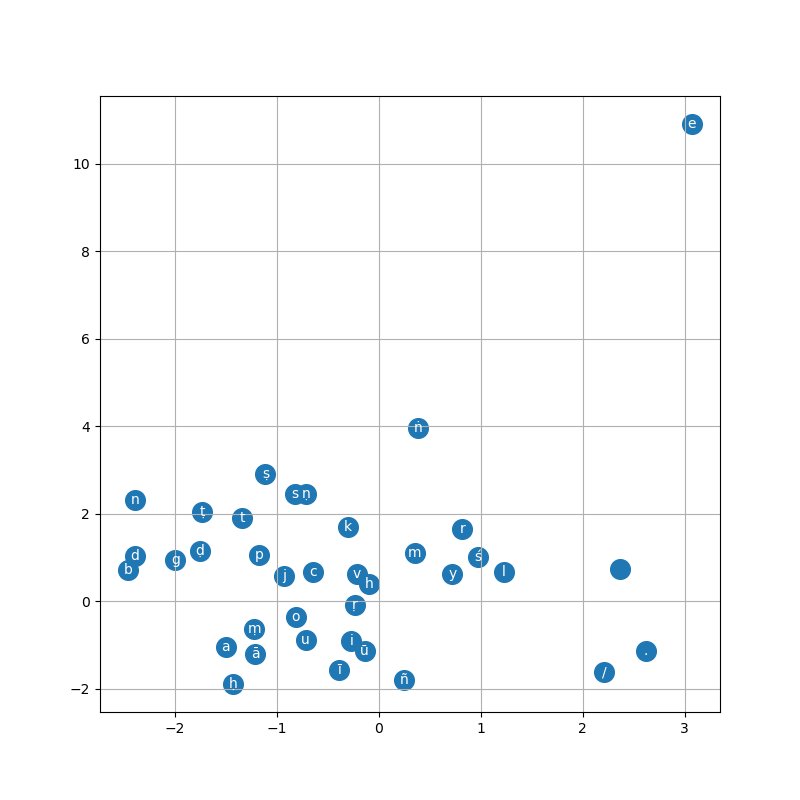
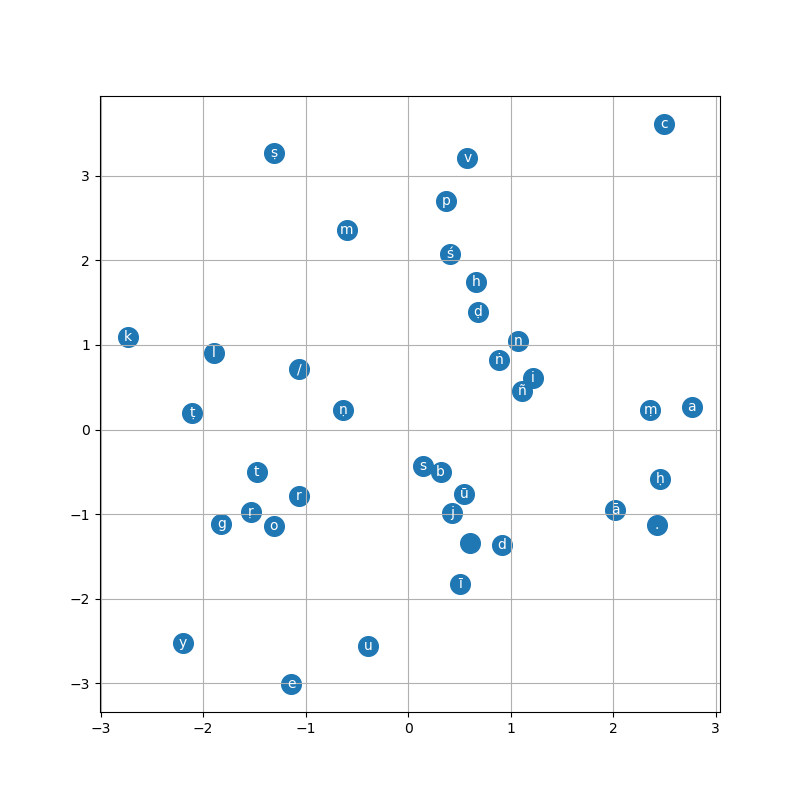
added batch normalization

diff --git a/makemore-demo/mlp.py b/makemore-demo/mlp.py
@@ -5,10 +5,11 @@ import matplotlib.pyplot as plt
 
 random.seed(42)
 
-words = open('sanskrit_names.txt', 'r').read().splitlines()
+words = open('sanskrit_names.txt', 'r', encoding="utf8").read().splitlines()
 
 chars = sorted(list(set(''.join(words))))
 num_char = len(chars)
+vocab_size = num_char + 1
 stoi = {s:i+1 for i, s in enumerate(chars)}
 stoi['.'] = 0
 itos = {i:s for s, i in stoi.items()}
@@ -37,42 +38,56 @@ Xtr, Ytr = build_dataset(words[:n1])
 Xdev, Ydev = build_dataset(words[n1:n2])
 Xte, Yte = build_dataset(words[n2:])
 
+
+n_embd = 5
+n_hidden = 50
+
 g = torch.Generator().manual_seed(2147483647)
+C = torch.randn((vocab_size, n_embd), generator=g)
+W1 = torch.randn((block_size * n_embd, n_hidden), generator=g) * (5/3) / (block_size * n_embd)**0.5
+# b1 = torch.randn(n_hidden, generator=g) * 0.01
+W2 = torch.randn((n_hidden, vocab_size), generator=g) * (5/3) / n_hidden**0.5
+b2 = torch.randn(vocab_size, generator=g) * 0
 
-d = 2
-C = torch.randn((num_char + 1, d), generator=g)
+bngain = torch.ones((1, n_hidden))
+bnbias = torch.zeros((1, n_hidden))
+bnmean_running = torch.zeros((1, n_hidden))
+bnstd_running = torch.ones((1, n_hidden))
 
-W1 = torch.randn((block_size * d, 50), generator=g)
-b1 = torch.randn(50, generator=g)
-W2 = torch.randn((50, num_char + 1), generator=g)
-b2 = torch.randn(num_char + 1, generator=g)
-
-parameters = [C, W1, b1, W2, b2]
+parameters = [C, W1, W2, b2, bngain, bnbias]
 for p in parameters:
     p.requires_grad = True
     
-batch_size = 64
-
 # print(sum(p.nelement() for p in parameters)) # prints total parameters
 # lre = torch.linspace(-3, 0, 100000)
 # lrs = 10 ** lre
 
 # lri = []
-# lossi = []
+lossi = []
 # stepi = []
 
-lr = 10 ** -0.7
-# lr = 0.1
+max_steps = 200000
+batch_size = 32
 
-for i in range(200000):
+for i in range(max_steps):
     # minibatch construct
     ix = torch.randint(0, Xtr.shape[0], (batch_size, ), generator=g)
 
     # forward pass
     emb = C[Xtr[ix]]
     # emb = torch.cat(torch.unbind(emb, 1), 1)
-    # emb = emb.view(-1, block_size * d) # more efficient than above
-    h =  torch.tanh(emb.view(-1, block_size * d) @ W1 + b1)
+    # emb = emb.view(-1, block_size * n_embd) # more efficient than above
+    embcat = emb.view(emb.shape[0], -1)
+    hpreact = embcat @ W1 #+ b1
+    bnmeani = hpreact.mean(0, keepdim=True)
+    bnstdi = hpreact.std(0, keepdim=True)
+    hpreact = bngain * ((hpreact - bnmeani) / bnstdi) + bnbias # batch normalization usually added after linear on conv layers  
+
+    with torch.no_grad():
+        bnmean_running = 0.999 * bnmean_running + 0.001 * bnmeani
+        bnstd_running = 0.999 * bnstd_running + 0.001 * bnstdi
+
+    h =  torch.tanh(hpreact)
     logits = h @ W2 + b2
     loss = F.cross_entropy(logits, Ytr[ix])
 
@@ -83,15 +98,23 @@ for i in range(200000):
 
     # update
     # lr = lrs[i]
-    if i % 100000 == 0 and i > 0:
-        lr = lr/10
+    lr = 10 ** -0.7 if i < 100000 else 0.02
     for p in parameters:
         p.data += -lr * p.grad
 
     # track stats
+    if i % 10000 == 0:
+        print(f'{i:7d}/{max_steps:7d}: {loss.item():.4f}')
     # lri.append(lre[i])
-    # lossi.append(loss.log10().item())
+    lossi.append(loss.log10().item())
     # stepi.append(i)
+
+    # break
+
+# # plotting h
+# plt.hist(h.view(-1).tolist(), 50)
+# plt.figure(figsize=(20,10))
+# plt.imshow(h.abs() > 0.99, cmap='gray', interpolation='nearest')
 
 # plt.plot(lri, lossi)
 # plt.show()
@@ -99,7 +122,6 @@ for i in range(200000):
 # plt.plot(stepi, lossi)
 # plt.show()
 
-@torch.nograd()
 def split_loss(split):
     x, y = {
         'train': (Xtr, Ytr),
@@ -108,19 +130,23 @@ def split_loss(split):
     }[split]
     emb = C[x]
     embcat = emb.view(emb.shape[0], -1)
-    h = torch.tanh(embcat @ W1 + b1)
+    hpreact = embcat @ W1 #+ b1
+    hpreact = bngain * ((hpreact - hpreact.mean(0, keepdim=True)) / hpreact.std(0, keepdim=True)) + bnbias
+    h = torch.tanh(hpreact)
     logits = h @ W2 + b2
     loss = F.cross_entropy(logits, y)
     print(split, loss.item())
 
-split_loss('train')
-split_loss('val')
+with torch.no_grad():
+    split_loss('train')
+    split_loss('val')
 
 plt.figure(figsize=(8,8))
 plt.scatter(C[:,0].data, C[:,1].data, s=200)
 for i in range(C.shape[0]):
     plt.text(C[i,0].item(), C[i, 1].item(), itos[i], ha='center', va='center', color='white')
 plt.grid('minor')
+# plt.show()
 plt.savefig('mlp_embeddings.png')
 
 # sample from model
@@ -129,7 +155,10 @@ for _ in range(20):
     context = [0] * block_size
     while True:
         emb = C[torch.tensor([context])]
-        h =  torch.tanh(emb.view(1, -1) @ W1 + b1)
+        embcat = emb.view(emb.shape[0], -1)
+        hpreact = embcat @ W1 #+ b1
+        hpreact = bngain * ((hpreact - bnmean_running) / bnstd_running ) + bnbias
+        h = torch.tanh(hpreact)
         logits = h @ W2 + b2
         probs = F.softmax(logits, dim=1)
         ix = torch.multinomial(probs, num_samples=1, generator=g).item()
